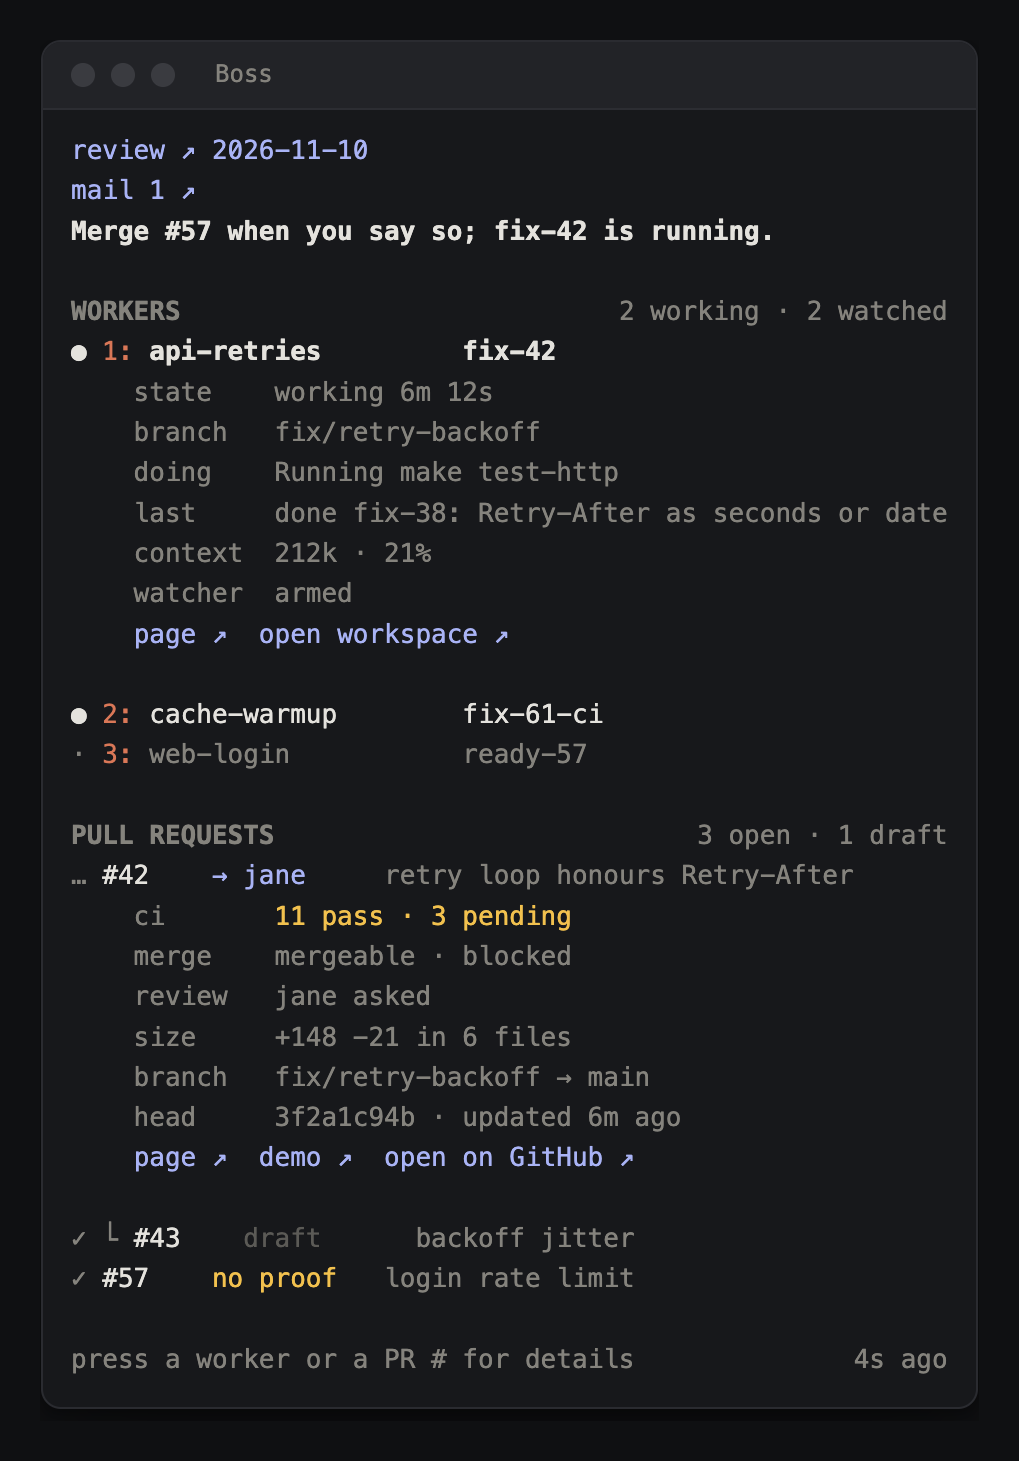
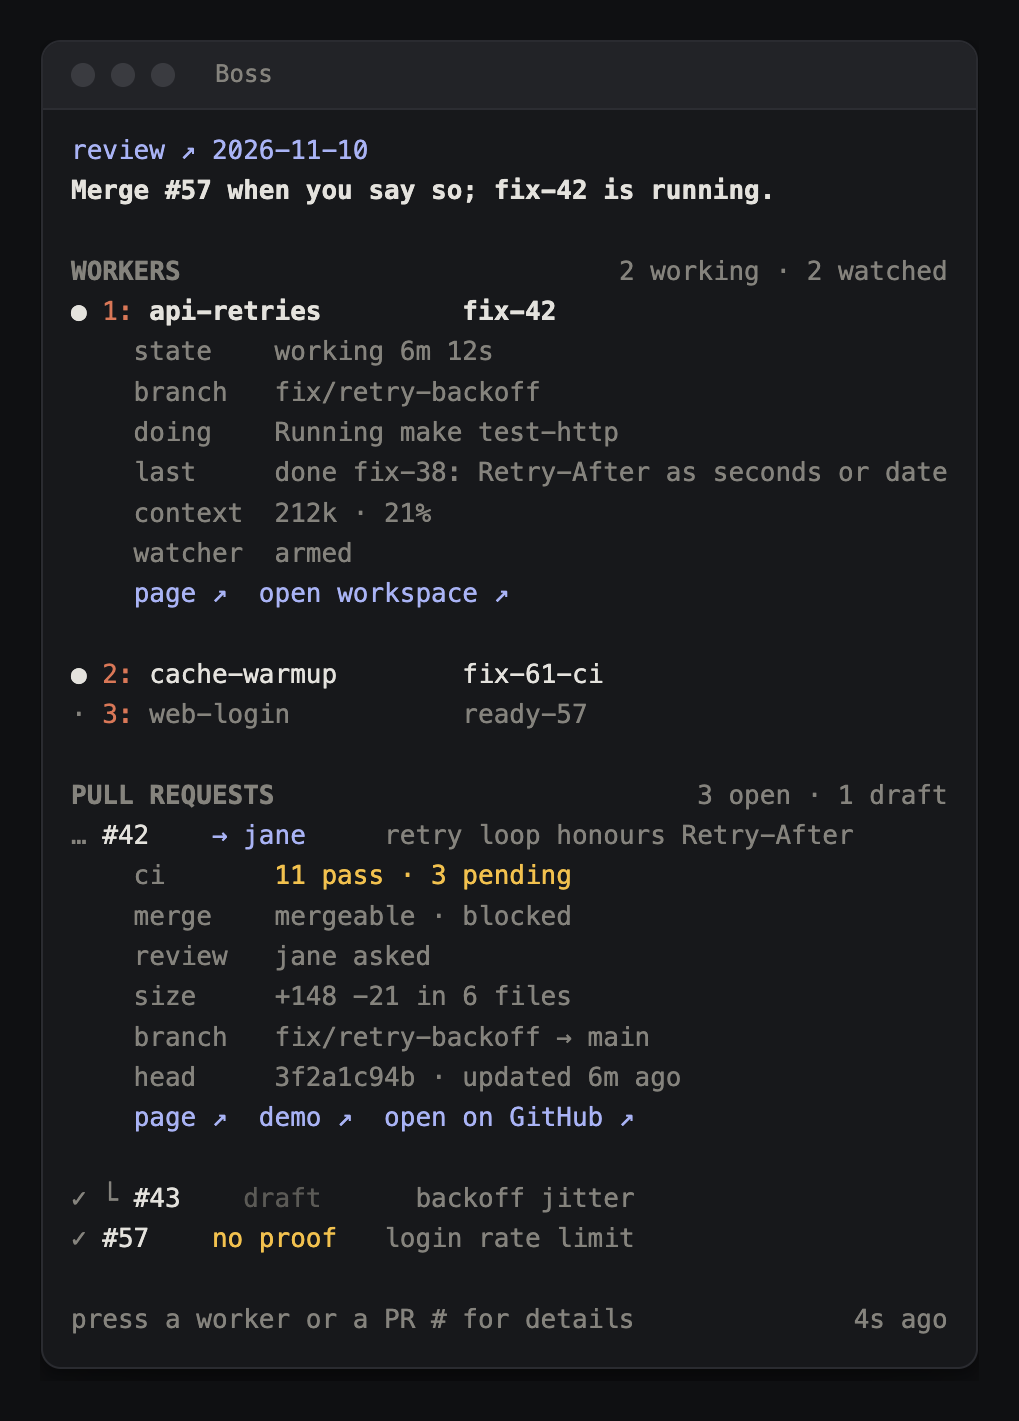
boss-deck: an INBOX section for input from outside; drop the other-bosses lines
The user: no need for an other-bosses section; an inbox, as the generic place for input
from outside. Unread boss mail now lists in an INBOX section (kind in yellow, sender and
subject, up to five then +N more), shown only while something is unread. It replaces the
'mail N ↗' line at the top. The other live bosses are no longer drawn. boss-deck 0.5.5.

diff --git a/mods/boss-deck/hooks/register.tsx b/mods/boss-deck/hooks/register.tsx
@@ -2,7 +2,7 @@ import { atom, read, update } from 'claude-code'
 import type { EngineInterface, Register } from 'claude-code'
 
 import type { Deck, Detail, Pr, ProofLink, Worker } from '../types'
-import { footer, isBoss, mailContext, needsProof, otherBossLine, prDetails, stack, workerDetails } from './details'
+import { footer, isBoss, mailContext, needsProof, prDetails, stack, workerDetails } from './details'
 import type { PrView } from './details'
 
 const PANE = 'boss-deck'
@@ -12,6 +12,8 @@ const DATA_CMD = ['sh', '-c', 'exec python3 "${BOSS_KIT_HOME:-$HOME/.claude/boss
 const REFRESH_MS = 60_000
 // A PR untouched this long folds into one 'stale' line.
 const STALE_PR_DAYS = 10
+// Unread messages listed in the inbox before it folds the rest into "+N more".
+const INBOX_ROWS = 5
 // Change a tag when its value's fields change: it declines what an earlier version stored.
 const deck = atom({ plugin: 'boss-deck', key: 'deck' } as const, null, { shape: 'deck-7' })
 const peek = atom({ plugin: 'boss-deck', key: 'peek' } as const, null, { shape: 'peek-3' })
@@ -261,22 +263,6 @@ export const register: Register = on => {
       <Box flexDirection="column" paddingX={1}>
         {d.error && text(`data error: ${d.error}`, false, 'error')}
         {d.review && linkButton('review', `review ↗ ${d.review.date}`, d.review.url)}
-        {(d.mail?.count ?? 0) > 0 && (
-          <Box flexDirection="column">
-            <Button
-              plain
-              key="mail"
-              onPress={() =>
-                void toggle($, 'mail', async () => ({
-                  rows: (d.mail?.items ?? []).map(m => ({ label: m.kind, value: `${m.from}: ${m.subject}` })),
-                }))
-              }
-            >
-              <Text color="suggestion">{`mail ${d.mail?.count} ↗`}</Text>
-            </Button>
-            {shown?.key === 'mail' && details(shown.rows)}
-          </Box>
-        )}
         <Text bold wrap="wrap">
           {d.next || 'Nothing needs you.'}
         </Text>
@@ -286,6 +272,20 @@ export const register: Register = on => {
             {rest(text(a.text, a.level !== 'act', a.level === 'act' ? 'warning' : undefined))}
           </Box>
         ))}
+
+        {/* Input from outside this session, today boss mail: shown only while something is unread. */}
+        {(d.mail?.count ?? 0) > 0 && (
+          <Box flexDirection="column">
+            {section('inbox', `${d.mail?.count} unread · boss-mail inbox`)}
+            {(d.mail?.items ?? []).slice(0, INBOX_ROWS).map(m => (
+              <Box flexDirection="row">
+                {cell(10, text(m.kind, false, 'warning'))}
+                {rest(text(`${m.from}: ${m.subject}`, false))}
+              </Box>
+            ))}
+            {(d.mail?.count ?? 0) > INBOX_ROWS && text(`+${(d.mail?.count ?? 0) - INBOX_ROWS} more`, true)}
+          </Box>
+        )}
 
         {section('workers', `${working} working · ${d.watchers.length} watched`)}
         {d.workers.length === 0 && text('none', true)}
@@ -307,21 +307,6 @@ export const register: Register = on => {
           </Box>
         )}
 
-        {(d.others ?? []).length > 0 && (
-          <Box flexDirection="column">
-            {section('other bosses', `${(d.others ?? []).length} live · press to open`)}
-            {(d.others ?? []).map(b => {
-              const line = otherBossLine(b)
-              return (
-                <Button plain key={`boss-${b.id}`} onPress={() => void openWorkspace($, b.workspace)}>
-                  <Text dimColor>{line.quiet}</Text>
-                  {line.forYou && <Text color="warning">{line.forYou}</Text>}
-                  <Text dimColor> ↗</Text>
-                </Button>
-              )
-            })}
-          </Box>
-        )}
 
         {/* One quiet line when it fits: the tracker and the hint flow on the left, wrapping whole, the age stays right. */}
         <Box flexDirection="row" justifyContent="space-between" columnGap={2} marginTop={1}>

diff --git a/mods/boss-deck/tests/pane.test.tsx b/mods/boss-deck/tests/pane.test.tsx
@@ -10,13 +10,11 @@ const DECK: Deck = {
     { ...pr, repo: 'acme/widgets', primary: true, num: 7, head: 'a', tag: 'w' } as Deck['prs'][0],
     { ...pr, repo: 'acme/widgets-sdk', primary: false, num: 42, head: 'b', tag: 'ws' } as Deck['prs'][0],
   ],
-  others: [
-    { id: 'ws-a', project: 'gadgets', workspace: 'ws-a', working: 1, forYou: 0 },
-    { id: 'ws-b', project: 'gizmos', workspace: 'ws-b', working: 0, forYou: 0 },
-  ],
+  others: [{ id: 'ws-a', project: 'gadgets', workspace: 'ws-a', working: 1, forYou: 0 }],
+  mail: { count: 1, dir: '/nonexistent', items: [{ id: 'm1', kind: 'question', from: 'gadgets', subject: 'is #42 safe?' }] },
 }
 
-test('the pane passes its workspace, and draws each other boss once, short repo tags, task ids and the board', async ($, on) => {
+test('the pane passes its workspace, and draws its inbox, short repo tags, task ids and the board', async ($, on) => {
   const runs: string[][] = []
   mock.env(on, { SUPERSET_WORKSPACE_ID: 'ws-me' })
   mock.clock(on)
@@ -32,8 +30,9 @@ test('the pane passes its workspace, and draws each other boss once, short repo 
 
   const ui = await $.ui.mount({ plugin: 'boss-deck', surface: 'terminal', component: 'Pane', requestId: 'boss-deck', props: {} as never })
   const texts = (await ui.findAll({ type: 'Text' })).map(t => t.text)
-  expect(texts).toContain('OTHER BOSSES')
-  expect(texts.filter(t => /^\w+ · \d+ working$/.test(t ?? ''))).toEqual(['gadgets · 1 working', 'gizmos · 0 working'])
+  expect(texts).toContain('INBOX')
+  expect(texts).toContain('gadgets: is #42 safe?')
+  expect(texts.some(t => /gadgets · \d+ working/.test(t ?? ''))).toBe(false)  // other bosses are not listed
   expect(texts).toContain('#7')
   expect(texts).toContain('ws#42')
   expect(texts).toContain('retry-43')

diff --git a/docs/src/shots.html b/docs/src/shots.html
@@ -99,8 +99,10 @@ const pr = (ci, depth, tag, status, title, sc) =>
 const detail = (label, value, c = 'd') => line(seg('    ' + pad(label, 9), 'd'), seg(value, c))
 
 const head = () =>
-  line(seg('review ↗ 2026-11-10', 'su')) +
-  line(seg('mail 1 ↗', 'su'))
+  line(seg('review ↗ 2026-11-10', 'su'))
+const inbox = () =>
+  section('inbox', '1 unread · boss-mail inbox') +
+  line(seg(pad('question', 10), 'wa'), seg('gadgets: is #42 safe to depend on?'))
 // The footer: tracker and hint flow left and wrap whole, the age stays right on the first line.
 const foot = (ago, tracker) => '\n' + (tracker
   ? justify(tracker, `${ago} ago`, 'd', 'd') + line(seg('press a worker or a PR # for details', 'd'))
@@ -111,6 +113,7 @@ const main =
   line(seg('Merge #57 when you say so; fix-42 is running.', 'b')) +
   line(seg('› ', 'wa'), seg('#57 approved + green: ready to merge (no proof)', 'wa')) +
   line(seg('· ', 'd'), seg('#61 waiting on review for 2 days', 'd')) +
+  inbox() +
   section('workers', '2 working · 2 watched') +
   worker('●', 1, 'api-retries', 'fix-42') +
   worker('●', 2, 'cache-warmup', 'fix-61-ci') +
@@ -121,8 +124,6 @@ const main =
   pr('✓', 0, '#57', 'no proof', 'login rate limit', 'wa') +
   pr('✗', 0, '#61', 'review', 'warm the cache on deploy', 'er') +
   pr('✓', 0, 'ws#7', 'approved', 'client for the retry API', 'ok') +
-  section('other bosses', '1 live · press to open') +
-  line(seg('gadgets · 2 working', 'd'), seg(' · 1 for you', 'wa'), seg(' ↗', 'd')) +
   foot('12s', 'tracker: 6 mine · 2 P0/P1 · 1 in progress')
 
 const peek =

diff --git a/mods/boss-deck/tests/details.test.ts b/mods/boss-deck/tests/details.test.ts
@@ -1,6 +1,6 @@
 import { expect, test } from 'claude-code/testing'
 
-import { footer, isBoss, mailContext, needsProof, otherBossLine, prDetails, stack, workerDetails } from '../hooks/details'
+import { footer, isBoss, mailContext, needsProof, prDetails, stack, workerDetails } from '../hooks/details'
 import type { Pr } from '../types'
 
 const worker = { ws: '1a2b3c4d', id: 'x', term: 'y', name: 'api', branch: 'feat/a', task: 'restack-42', ledger: 'DISPATCHED', date: '', state: 'working', watched: true, proof: [] }
@@ -41,12 +41,6 @@ test('only a ready-to-merge PR without proof is flagged', () => {
   expect(needsProof({ ...ready, draft: true })).toBe(false)
   expect(needsProof({ ...ready, ci: 'pending' })).toBe(false)
   expect(needsProof({ ...ready, review: '' })).toBe(false)
-})
-
-test('another live boss reads as one quiet line, its "for you" part apart so it can be colored', () => {
-  const b = { id: 'b', project: 'widgets', workspace: 'ws-b', working: 2, forYou: 1 }
-  expect(otherBossLine(b)).toEqual({ quiet: 'widgets · 2 working', forYou: ' · 1 for you' })
-  expect(otherBossLine({ ...b, forYou: 0 })).toEqual({ quiet: 'widgets · 2 working', forYou: '' })
 })
 
 test('unread mail becomes one context line, none when the inbox is empty', () => {

diff --git a/mods/boss-deck/hooks/details.ts b/mods/boss-deck/hooks/details.ts
@@ -1,4 +1,4 @@
-import type { Deck, Detail, MailItem, OtherBoss, Pr, Worker } from '../types'
+import type { Deck, Detail, MailItem, Pr, Worker } from '../types'
 
 const ago = (s: number) => (s < 90 ? `${s}s` : s < 5400 ? `${Math.round(s / 60)}m` : `${Math.round(s / 3600)}h`)
 const who = (login: string) => (login.includes('-') ? 'team' : (login.match(/^[A-Z]?[a-z]+/)?.[0] ?? login).toLowerCase())
@@ -109,11 +109,6 @@ export function stack(prs: Pr[]): [Pr, number][] {
 /** Ready to merge (approved, green, not a draft) but carrying no proof link: the one case the pane colors. */
 export function needsProof(p: Pr): boolean {
   return !p.draft && p.review === 'APPROVED' && p.ci === 'green' && p.proof.length === 0
-}
-
-/** One line per other live boss, "<project> · N working · M for you ↗", split so "M for you" can be colored. */
-export function otherBossLine(b: OtherBoss): { quiet: string; forYou: string } {
-  return { quiet: `${b.project} · ${b.working} working`, forYou: b.forYou ? ` · ${b.forYou} for you` : '' }
 }
 
 /** The context line a prompt carries while mail is unread, or none. */

diff --git a/README.md b/README.md
@@ -276,7 +276,7 @@ Two bosses, `widgets` and `gadgets`. The gadgets boss needs to know whether a wi
 boss-mail send --to widgets --kind question --subject "is #42 safe to depend on?" \
   --body "gadgets#7 calls the new retry API from widgets#42. Merged and deployed yet?"
 
-# in the widgets boss's worktree: the pane shows "mail 1 ↗", and every prompt carries one line about it
+# in the widgets boss's worktree: the pane's INBOX lists it, and every prompt carries one line about it
 boss-mail inbox
 boss-mail read 20260102-101500-a1b2c3
 boss-mail reply 20260102-101500-a1b2c3 --body "Merged as 3f2a1c9, deploy pending. Re-ask after deploy."
@@ -328,11 +328,10 @@ A quiet pane: grey by default, color only for what needs you. Here with a worker
 <img src="docs/boss-deck-peek.png" width="480" alt="boss-deck pane with the api-retries worker expanded (state, branch, activity, last envelope, context, watcher, proof) and PR #42 expanded (CI, merge state, reviews, size, branch, head, proof links)">
 
 - **The top line** is this boss's last "Your move", read from its `next.txt`.
-- **`mail N ↗`** expands to the unread subjects. While mail is unread, every prompt carries one context line naming it, which the model reads and you don't see. It reads the inbox folder only, so it costs nothing.
+- **INBOX** appears while something from outside this session is unread: today, boss mail. Each message is one line (its kind in yellow, then sender and subject), up to five, then `+N more`. While mail is unread, every prompt also carries one context line naming it, which the model reads and you don't see. It reads the inbox folder only, so it costs nothing.
 - **Press a worker row** (or its key, `1`–`9`, once the pane has focus) to expand it: state and elapsed time, branch, what it's doing, its last envelope, context use (yellow at 60% or more), watcher, its proof links (`page ↗`, `demo ↗`, from the ledger's Proof column), and **`open workspace ↗`**, which opens it in the Paradev app (`superset workspaces open`). Press again to fold it.
 - **Press a PR number** for CI (pass / fail / pending with the failing names), mergeability, reviews, size and head, plus "open on GitHub" and its proof: `demo ↗`, `page ↗`, `artifact ↗`. Links are taken from the PR body and comments: Superset pages, claude.ai artifacts, video files, GitHub attachments and Loom.
 - **`review ↗ <date>`** at the top opens the latest review page (this boss's `review.txt`).
-- **OTHER BOSSES** lists each other live boss on one line, `<project> · N working · M for you ↗`, with `M for you` in yellow. Press it to open that boss's workspace.
 - **The footer** shows `tracker: N mine · N P0/P1 · N in progress` when a tracker is synced (nothing otherwise), `N new shared lessons` added since this boss's last session, and when the pane last updated.
 - **PR status colors:** green approved, blue waiting on a reviewer, yellow conflict, red CI, grey draft. An approved, green PR with no proof shows **`no proof`** in yellow, the only proof-related color. Stacked PRs nest under their base. PRs idle for 10+ days fold into one line.
 - **Refresh:** every 60 s, plus right after the boss dispatches, merges, comments or syncs. `/boss-deck` refreshes on demand. The pane writes no status line.

diff --git a/mods/boss-deck/README.md b/mods/boss-deck/README.md
@@ -3,12 +3,11 @@
 A quiet, read-only Claude Code pane for a boss session. It shows:
 
 - **review ↗ <date>**: the latest review page, from this boss's `review.txt`
-- **mail N ↗**: unread boss mail, expanding to the subjects; while mail is unread, every prompt carries one context line naming it
+- **inbox**: unread input from outside the session (today, boss mail), one line per message with its kind in yellow; shown only while something is unread, and every prompt carries one context line naming it
 - **now**: this boss's one next action, from its `next.txt`
 - **what needs you**: blocked workers, idle workers whose dispatch has no watcher, stale watchers, red CI, and PRs that are approved and green
 - **workers**: each dispatched Paradev workspace with its current task (from the ledger) and live state. Press the row (or its key, 1–9) to expand it: state, branch, what it is doing, its last envelope, context use, watcher, its proof links (`page ↗`, `demo ↗`) from the ledger, and `open workspace ↗`
 - **pull requests**: as a stack tree, colored by status (green approved, blue waiting on a reviewer, yellow conflict, red CI, grey draft). Press the number for CI, mergeability, reviews and size, plus "open on GitHub" and its proof (`demo ↗`, `page ↗`, `artifact ↗`, found in the PR body and comments). An approved, green PR without proof reads **no proof** in yellow. PRs idle for 10+ days fold into one line
-- **other bosses**: a section with one line per other live boss (`<project> · N working · M for you ↗`, "M for you" in yellow), which opens that boss's workspace
 - **footer**: a tracker summary (`tracker: N mine · N P0/P1 · N in progress`) only when one is synced, and **N new shared lessons** when shared lessons were added since this boss's last session
 
 It loads only in a session whose working directory has a `CLAUDE.local.md` with `# Boss workspace <id>`, where `<id>` is that session's `$SUPERSET_WORKSPACE_ID` (a bare `# Boss workspace` matches any session). A copy of the file in another worktree, or another workspace on the same checkout, gets no pane and sends no heartbeat. Data comes from `bin/boss-deck-data.py` under `$BOSS_KIT_HOME` (default `~/.claude/boss-kit`). It reads project data from `$BOSS_HOME` (default `~/.claude/boss`), and each refresh is this boss's heartbeat. It refreshes every 60 s and right after the boss dispatches, merges or comments. `/boss-deck` opens and refreshes it.
